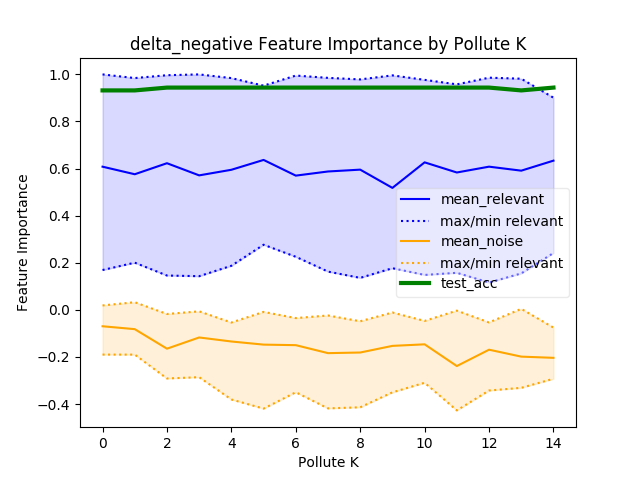
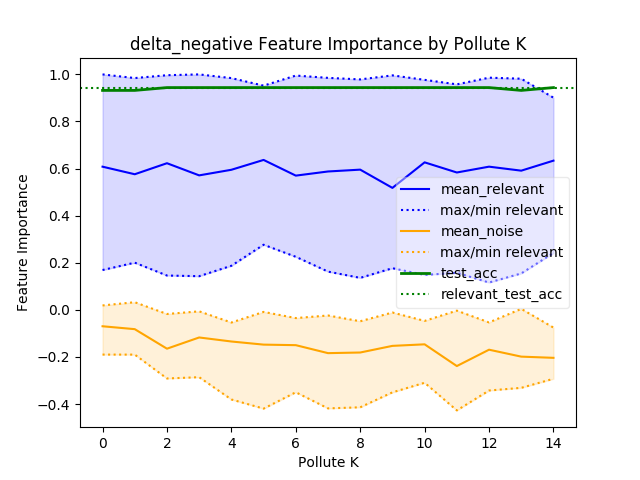
added upper bound on test_acc

diff --git a/experiments/experiment_increase_iter.py b/experiments/experiment_increase_iter.py
@@ -97,6 +97,11 @@ if __name__ == "__main__":
     mean_relevant, max_relevant, min_relevant, mean_noise, max_noise, min_noise, results = zip(
         *importance_list
     )
+
+    model.fit(X_train[:, :n_relevant], y_train)
+    preds = model.predict(X_test[:, :n_relevant])
+    relevant_result = acc(y_test, preds)
+
     x = range(n_iterations)
     plt.plot(x, mean_relevant, label="mean_relevant", c="b", linestyle="-")
     plt.plot(x, max_relevant, label="max/min relevant", c="b", linestyle=":")
@@ -106,7 +111,8 @@ if __name__ == "__main__":
     plt.plot(x, max_noise, label="max/min relevant", c="orange", linestyle=":")
     plt.plot(x, min_noise, c="orange", linestyle=":")
     plt.fill_between(x=x, y1=max_noise, y2=min_noise, color='orange', alpha=0.15)
-    plt.plot(x, results, label="test_acc", c="g", linestyle="-", linewidth=3)
+    plt.plot(x, results, label="test_acc", c="g", linestyle="-", linewidth=2)
+    plt.axhline(relevant_result, label="relevant_test_acc", c="g", linestyle=":")
     plt.xlabel("Iteration")
     plt.ylabel("Feature Importance")
     plt.legend(fancybox=True, loc=7).get_frame().set_alpha(0.4)

diff --git a/experiments/experiment_increase_k.py b/experiments/experiment_increase_k.py
@@ -98,6 +98,10 @@ if __name__ == "__main__":
         *importance_list
     )
 
+    model.fit(X_train[:, :n_relevant], y_train)
+    preds = model.predict(X_test[:, :n_relevant])
+    relevant_result = acc(y_test, preds)
+
     x = range(n_features)
     plt.plot(x, mean_relevant, label="mean_relevant", c="b", linestyle="-")
     plt.plot(x, max_relevant, label="max/min relevant", c="b", linestyle=":")
@@ -107,7 +111,8 @@ if __name__ == "__main__":
     plt.plot(x, max_noise, label="max/min relevant", c="orange", linestyle=":")
     plt.plot(x, min_noise, c="orange", linestyle=":")
     plt.fill_between(x=x, y1=max_noise, y2=min_noise, color='orange', alpha=0.15)
-    plt.plot(x, results, label="test_acc", c="g", linestyle="-", linewidth=3)
+    plt.plot(x, results, label="test_acc", c="g", linestyle="-", linewidth=2)
+    plt.axhline(relevant_result, label="relevant_test_acc", c="g", linestyle=":")
     plt.xlabel("Pollute K")
     plt.ylabel("Feature Importance")
     plt.legend(fancybox=True, loc=7).get_frame().set_alpha(0.4)
